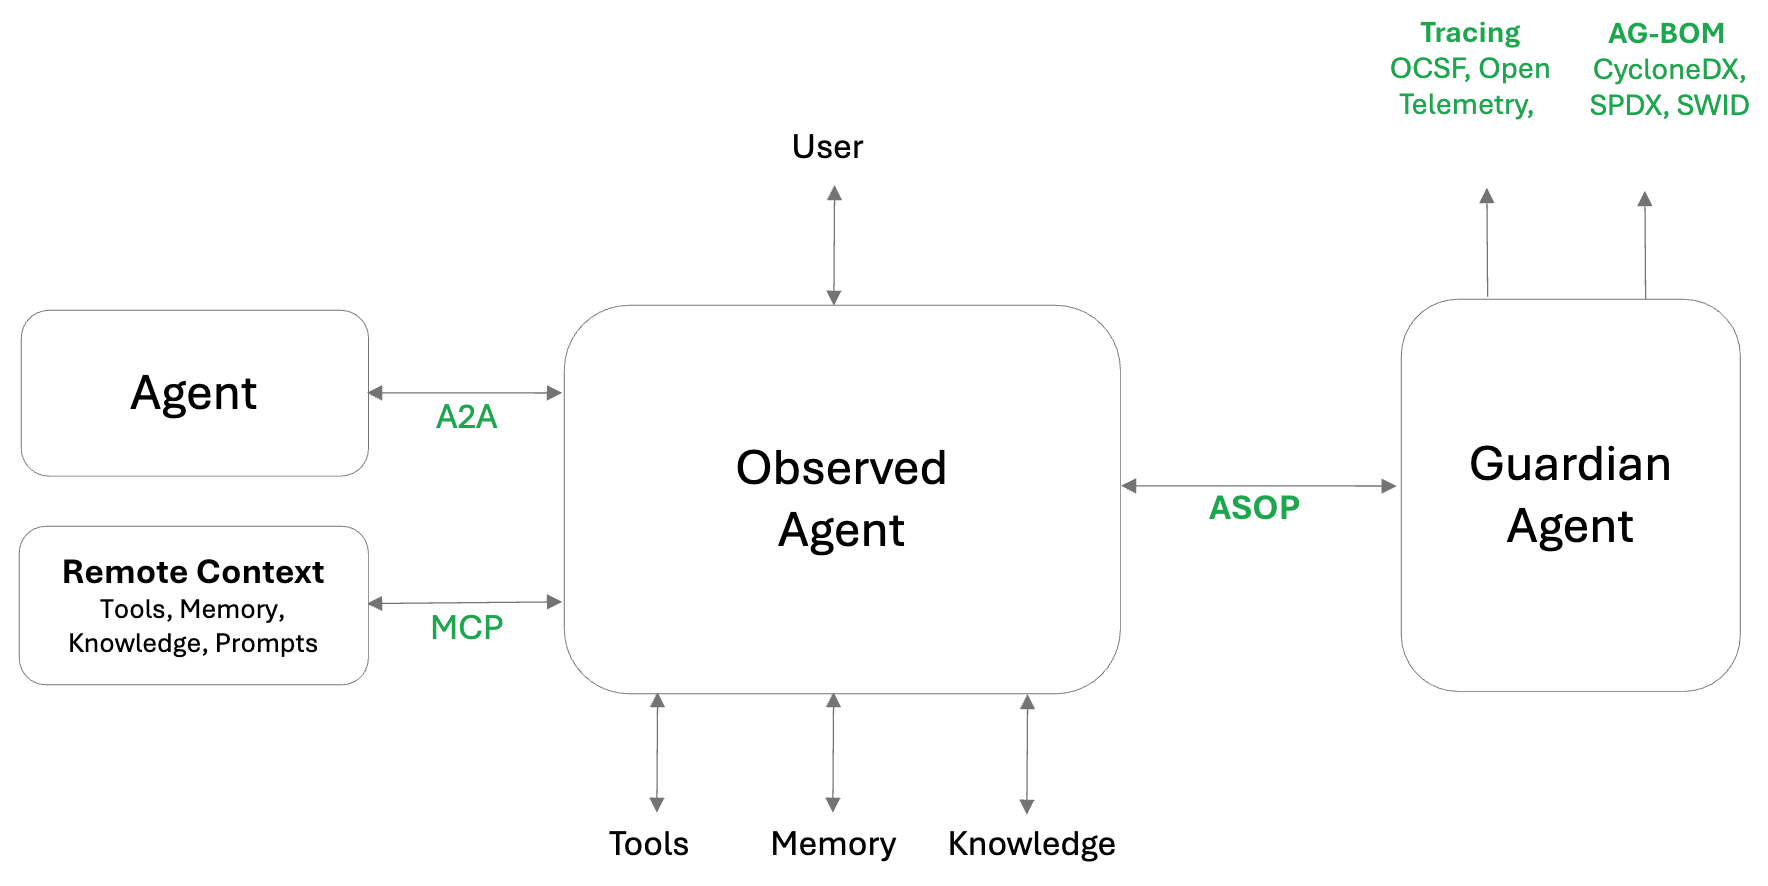
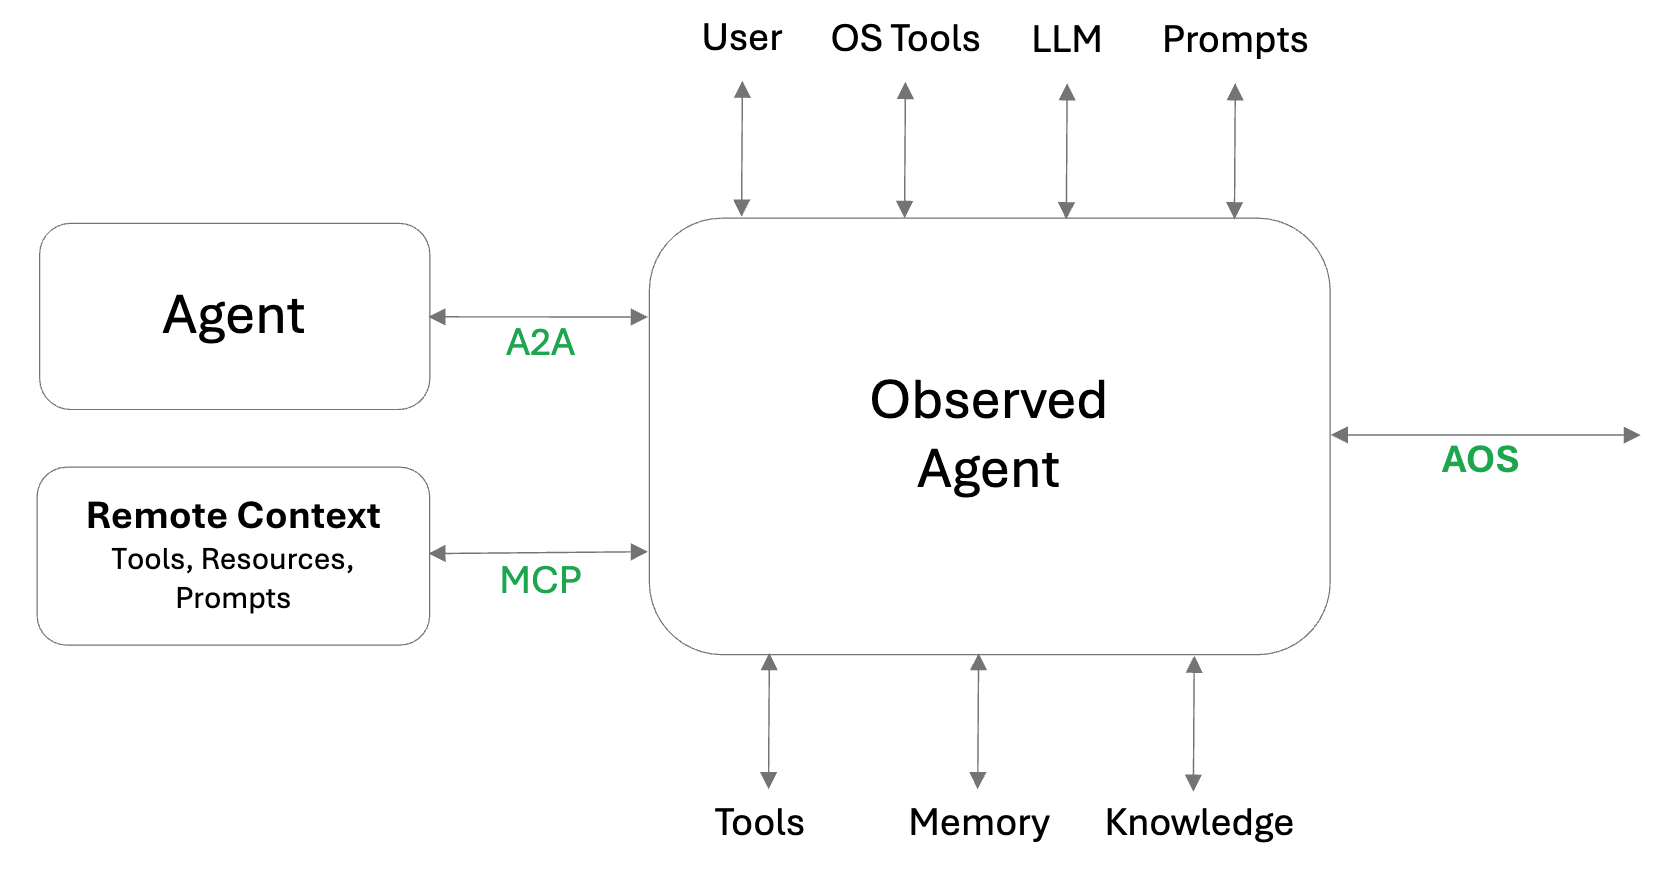
Core concepts rephrasing and agent_env diagram updated. Fixes #33

diff --git a/docs/topics/core_concepts.md b/docs/topics/core_concepts.md
@@ -32,20 +32,33 @@ A trustworthy agent is an Observed Agent that transparently exposes its interact
 
 ## Agent Instrumentation
 
-### Observed Agent Responsibilities:
-An Observed Agent should ensure inspectability, traceability, and observability by:
+### Observed Agent Responsibilities
 
-- Emitting Standard Events: Every interaction with the environment must be exposed through standardized event formats.
-- Standardized Tracing: Maintain a standardized trace of all interactions to support improved observability, enable a holistic multi-agent view, and facilitate historical interaction analysis.
-- Instrumentation: Events should trigger hooks that allow the Guardian Agent to enforce policies. Example policies may include restricting external communication, redacting sensitive data, or enforcing compliance constraints. Based on these policies, the Guardian Agent can permit, deny, or modify the content of the interaction.
-- Reactive Capabilities: The agent must be capable of responding to Guardian Agent directives, including action denials or content mutations.
+An **Observed Agent** is responsible for ensuring environmental visibility and policy responsiveness through the following capabilities:
 
-### Guardian Agent Responsibilities:
-The Guardian Agent enforces policies and enables tracing through the following:
+- **Support BOM Requests**  
+  Provide up-to-date information about components and dependencies relevant to the agent’s operational context.
+- **Emit Events**  
+  Generate standardized events that reflect all interactions with the environment to ensure traceability and observability.
+- **Support Hooks**  
+  Integrate with lifecycle hooks that allow external entities (e.g., Guardian Agent) to inspect or control operations.
+- **Comply with Hook Responses**  
+  React appropriately to directives from hooks, such as permitting, denying, or modifying actions based on policy enforcement.
 
-- Event Instrumentation Utilization: Leverage standard event hooks to evaluate and enforce policies, responding with permit, deny, or modify instructions.
-- Standardized Tracing: Maintain a consistent trace of all interactions to enhance observability, support a comprehensive view across agents, and enable detailed analysis of interaction history.
-- Provide comprehensive and dynamic AgBOM: Maintain and notify an up to date list of components and dependencies for the agent environment changes such as new or updated tools, models and other components
+---
+
+### Guardian Agent Responsibilities
+
+The **Guardian Agent** enhances control, compliance, and dynamic environment awareness via the following responsibilities:
+
+- **Observe and Emit Events in Multiple Standards**  
+  Capture and emit observed interactions using various standardized formats to support interoperability and broader system integration.
+- **Subscribe to Hooks**  
+  Register for and listen to hooks emitted by Observed Agents to enable active intervention in agent behavior.
+- **Apply Policy**  
+  Enforce operational policies by evaluating hook-triggered events and issuing corresponding decisions (permit, deny, modify).
+- **Dynamically Maintain AgBOM**  
+  Monitor agent lifecycle events to update and maintain the Agent BOM (Bill of Materials) in real-time, reflecting current tools, models, and components.
 
 ## A2A and MCP
 
